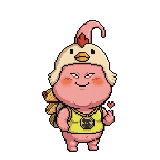
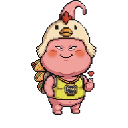
Pet World: add animated hero sprite strips

Changed region(s): [[0.2188, 0.0, 0.7812, 0.9688]]

diff --git a/client/src/components/petWorld/petWorldCuteFantasySprites.js b/client/src/components/petWorld/petWorldCuteFantasySprites.js
@@ -324,11 +324,87 @@ const CUSTOM_PETS = {
   buu:     { p: 'Pets/Buu.png' },
 };
 
-const BASE_HERO_PETS = {
-  dojocat: { p: hfp('dojocat', 'base.png'), baseScale: 1.55 },
-  buu:     { p: hfp('buu', 'base.png'), baseScale: 1.55 },
-  devit:   { p: hfp('devit', 'base.png'), baseScale: 1.52 },
-  pixiu:   { p: hfp('pixiu', 'base.png'), baseScale: 1.52 },
+const HERO_ANIM_PETS = {
+  dojocat: {
+    base: hfp('dojocat', 'base.png'),
+    baseScale: 1.55,
+    fw: 128,
+    fh: 128,
+    idleFrames: 4,
+    walkFrames: 4,
+    idle: {
+      south: hfp('dojocat', 'idle_south.png'),
+      north: hfp('dojocat', 'idle_north.png'),
+      east: hfp('dojocat', 'idle_east.png'),
+      west: hfp('dojocat', 'idle_west.png'),
+    },
+    walk: {
+      south: hfp('dojocat', 'walk_south.png'),
+      north: hfp('dojocat', 'walk_north.png'),
+      east: hfp('dojocat', 'walk_east.png'),
+      west: hfp('dojocat', 'walk_west.png'),
+    },
+  },
+  buu: {
+    base: hfp('buu', 'base.png'),
+    baseScale: 1.55,
+    fw: 128,
+    fh: 128,
+    idleFrames: 4,
+    walkFrames: 4,
+    idle: {
+      south: hfp('buu', 'idle_south.png'),
+      north: hfp('buu', 'idle_north.png'),
+      east: hfp('buu', 'idle_east.png'),
+      west: hfp('buu', 'idle_west.png'),
+    },
+    walk: {
+      south: hfp('buu', 'walk_south.png'),
+      north: hfp('buu', 'walk_north.png'),
+      east: hfp('buu', 'walk_east.png'),
+      west: hfp('buu', 'walk_west.png'),
+    },
+  },
+  devit: {
+    base: hfp('devit', 'base.png'),
+    baseScale: 1.52,
+    fw: 128,
+    fh: 128,
+    idleFrames: 4,
+    walkFrames: 4,
+    idle: {
+      south: hfp('devit', 'idle_south.png'),
+      north: hfp('devit', 'idle_north.png'),
+      east: hfp('devit', 'idle_east.png'),
+      west: hfp('devit', 'idle_west.png'),
+    },
+    walk: {
+      south: hfp('devit', 'walk_south.png'),
+      north: hfp('devit', 'walk_north.png'),
+      east: hfp('devit', 'walk_east.png'),
+      west: hfp('devit', 'walk_west.png'),
+    },
+  },
+  pixiu: {
+    base: hfp('pixiu', 'base.png'),
+    baseScale: 1.52,
+    fw: 128,
+    fh: 128,
+    idleFrames: 4,
+    walkFrames: 4,
+    idle: {
+      south: hfp('pixiu', 'idle_south.png'),
+      north: hfp('pixiu', 'idle_north.png'),
+      east: hfp('pixiu', 'idle_east.png'),
+      west: hfp('pixiu', 'idle_west.png'),
+    },
+    walk: {
+      south: hfp('pixiu', 'walk_south.png'),
+      north: hfp('pixiu', 'walk_north.png'),
+      east: hfp('pixiu', 'walk_east.png'),
+      west: hfp('pixiu', 'walk_west.png'),
+    },
+  },
 };
 
 function petDirFromFacing(facing) {
@@ -817,17 +893,29 @@ export function drawCuteFantasyCritter(ctx, x, y, tileSize, species, frameOffset
  * @param {number} facing - 2=south, -2=north, -1=west, 1=east (or undefined)
  */
 export function drawCuteFantasyPet(ctx, x, y, tileSize, character, frameOffset, moving, facing = 2, scaleMultiplier = 1) {
-  const heroPet = BASE_HERO_PETS[character];
+  const heroPet = HERO_ANIM_PETS[character];
   if (heroPet) {
-    const src = heroPet.p;
-    const entry = getImage(src);
-    if (!entry?.loaded) return true;
     const dir = petDirFromFacing(facing);
-    const drawFacing = dir === 'west' ? -1 : 1;
     const d = tileSize * heroPet.baseScale * scaleMultiplier;
     const bob = moving ? Math.sin(frameOffset * Math.PI * 2) * d * 0.025 : 0;
     dropShadow(ctx, x, y + d * 0.16, d * 0.22, d * 0.07, 0.18);
-    return drawImg(ctx, src, x - d / 2, y - d * 0.76 + bob, d, d, drawFacing);
+
+    const animSrc = moving ? heroPet.walk[dir] : heroPet.idle[dir];
+    const animEntry = getImage(animSrc);
+    if (animEntry?.loaded) {
+      const frameCount = moving ? heroPet.walkFrames : heroPet.idleFrames;
+      const fi = Math.floor(frameOffset * frameCount) % frameCount;
+      return drawFrame(
+        ctx, animSrc,
+        fi * heroPet.fw, 0, heroPet.fw, heroPet.fh,
+        x - d / 2, y - d * 0.76 + bob, d, d,
+      );
+    }
+
+    const baseEntry = getImage(heroPet.base);
+    if (!baseEntry?.loaded) return true;
+    const drawFacing = dir === 'west' ? -1 : 1;
+    return drawImg(ctx, heroPet.base, x - d / 2, y - d * 0.76 + bob, d, d, drawFacing);
   }
 
   // ── Custom pet sprites (directional 48×48) ──
